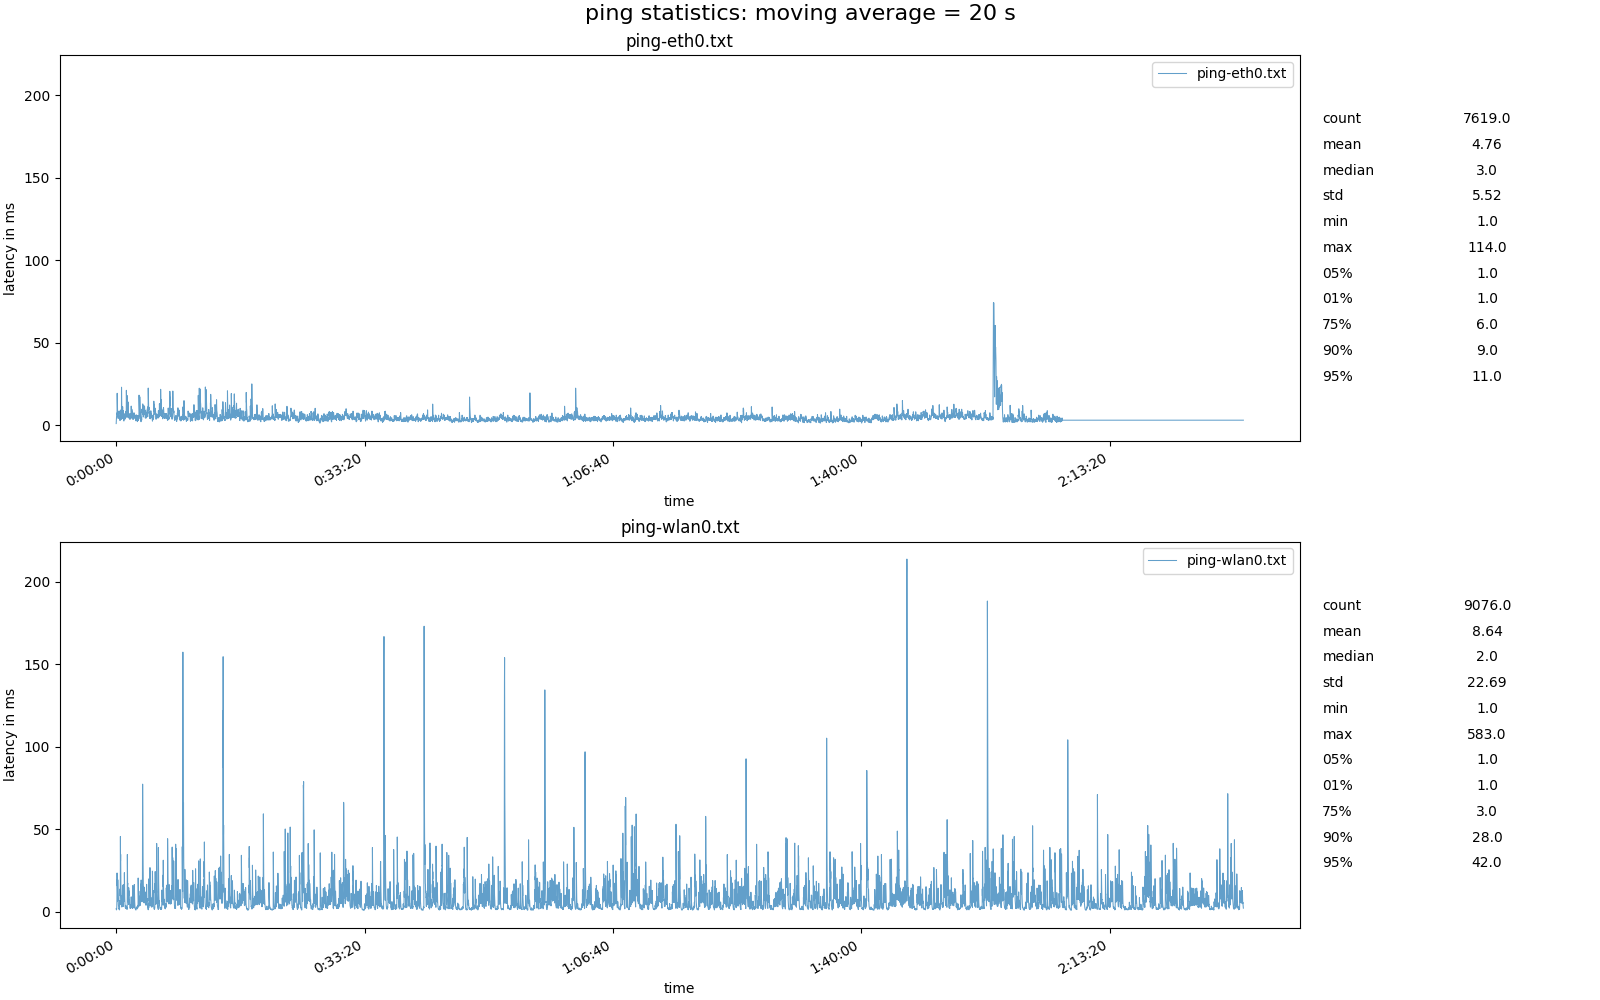
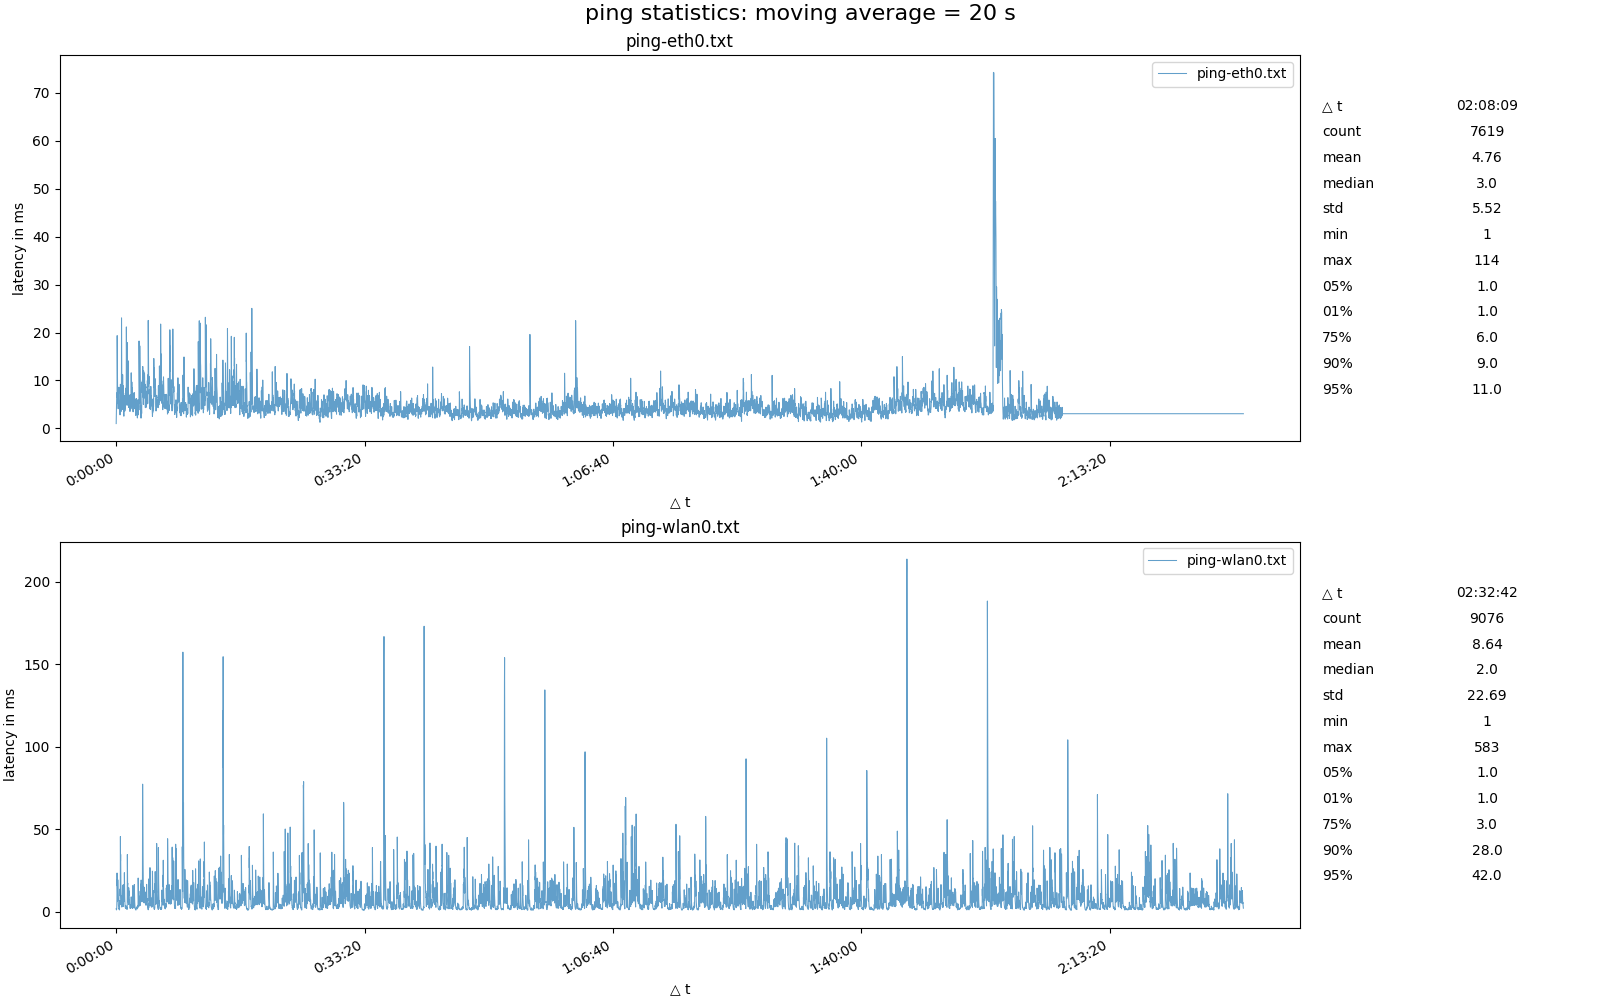
cleanup, axis labels

diff --git a/ping-analysis.py b/ping-analysis.py
@@ -1,4 +1,4 @@
-#!/usr/bin/python
+#!/usr/bin/env python3
 
 import sys
 from os.path import basename
@@ -12,8 +12,32 @@ from matplotlib import ticker
 
 # TODO: UNIX/Linux support
 # TODO: input validation, error checking
+# TODO: type functions
 
 def main():
+    args = parse_args()
+    latencies = read_files(args.file)
+
+    plots = []
+    if args.plot in ["single", "both"]:
+        # plots.append(plot_single(latencies, args.ma_window))
+        plots.append(create_plot(latencies, args.ma_window, "single"))
+    if args.plot in ["multi", "both"]:
+        # plots.append(plot_multi(latencies, args.ma_window))
+        plots.append(create_plot(latencies, args.ma_window, "multi"))
+
+    if args.out and len(args.out) != len(plots):
+        sys.exit("error: number of plots doesnt match number of out-files specified")
+
+    for plot in plots:
+        if args.out:
+            plot.savefig(args.out.pop().name)
+            plot.close()
+            continue
+        plot.show()
+        plot.close()
+
+def parse_args() -> argparse.Namespace:
     parser = argparse.ArgumentParser()
     parser.add_argument(
         "file", 
@@ -39,28 +63,9 @@ def main():
         type = int,
         help = "moving-average window in seconds; default = 20"
     )
-    args = parser.parse_args()
-    latencies = read_files(args.file)
+    return parser.parse_args()
 
-    plots = []
-    if args.plot in ["single", "both"]:
-        plots.append(plot_single(latencies, args.ma_window))
-    if args.plot in ["multi", "both"]:
-        plots.append(plot_multi(latencies, args.ma_window))
-
-    if args.out and len(args.out) != len(plots):
-        sys.exit("error: number of plots doesnt match number of out-files specified")
-
-    for plot in plots:
-        if args.out:
-            plot.savefig(args.out.pop().name)
-            plot.close()
-            continue
-        plot.show()
-        plot.close()
-
-
-def read_files(files) -> pd.DataFrame:
+def read_files(files: list[argparse.FileType]) -> pd.DataFrame:
     data = {}
     index = []
     
@@ -80,9 +85,10 @@ def read_files(files) -> pd.DataFrame:
     latencies = latencies.set_index("index", drop=True)
     return latencies
 
-def extract_pings(pings):
+def extract_pings(pings: list[str]) -> list[str]:
     # remove head until "Reply from" is matched
     pings = list(dropwhile(lambda ln: "Reply from" not in ln, pings))
+    # TODO: make readable
     # remove tail until "Reply from" is matched
     n = len(pings)
     i = n - 1
@@ -93,10 +99,10 @@ def extract_pings(pings):
     pings[-lines_to_delete:lines_to_delete and None] = []
     return pings
 
-def get_datetime(ping) -> int:
+def get_datetime(ping: str) -> datetime:
     return datetime.datetime.strptime(ping[0:19], "%d.%m.%Y %H:%M:%S")
 
-def get_latency(ping) -> int:
+def get_latency(ping: str) -> int:
     return int(re.search("time=(\d*)", ping).group(1))
 
 def describe(df: pd.DataFrame, include = 'all') -> pd.DataFrame:
@@ -107,95 +113,83 @@ def describe(df: pd.DataFrame, include = 'all') -> pd.DataFrame:
     desc = {}
     for col in cols: 
         desc[col] = {
+            "△ t": str(df[col].last_valid_index()).split( )[-1],
             "count": df[col].count(),
             "mean": df[col].mean(skipna = True).round(2),
             "median": df[col].median(skipna=True),
             "std": df[col].std(skipna=True).round(2),
             "min": df[col].min(skipna=True),
             "max": df[col].max(skipna=True),
-            "05%": df[col].quantile(.05),
-            "01%": df[col].quantile(.1),
+            "25%": df[col].quantile(.25),
             "75%": df[col].quantile(.75),
             "90%": df[col].quantile(.9),
             "95%": df[col].quantile(.95),
         }
     return pd.DataFrame.from_dict(desc)
 
-def plot_multi(latencies: pd.DataFrame, ewm_window: int = 20) -> plt:
-    n = latencies.shape[1]
+def create_plot(latencies: pd.DataFrame, ewm_window: int = 20, plots: str = "single") -> plt:
+    desc = describe(latencies)
     cols = list(latencies.columns.values)
-    desc = describe(latencies)    
+
+    if plots == "multi":
+        n = latencies.shape[1]
+    elif plots == "single":
+        n = 1
     
     fig, axes = plt.subplots(
-        nrows = n, ncols = 2, 
-        sharey = True,
-        figsize = (16, 10), 
+        nrows = n, ncols = 2,
+        figsize = (16, 5 * n), 
         constrained_layout=True, 
         gridspec_kw={"width_ratios": [8, 1]}
     )
 
     fig.suptitle(f"ping statistics: moving average = {ewm_window} s", fontsize = 16)
+    xformatter = ticker.FuncFormatter(timeTicks)
 
-    for i, col in enumerate(cols):
-        # latencies[col].plot(
-        #     ax = axes[i, 0], 
-        #     alpha = 0.5, 
-        #     label = "latency in ms", 
-        #     linewidth = 0.75
-        # )
-        latencies[col].ewm(span = 5).mean().plot(
-            ax = axes[i, 0], 
-            alpha = 0.7, 
+    # single chart
+    if n == 1: 
+        latencies.ewm(span = ewm_window).mean().plot(
+            ax = axes[0], 
+            alpha = 0.7,
             linewidth = 0.75
         )
-        
-        axes[i, 0].xaxis.set_major_formatter(ticker.FuncFormatter(timeTicks))
-        axes[i, 0].set(xlabel = "time", ylabel = "latency in ms", title = col)
-        axes[i, 0].legend()
-        
-        colinfo = pd.DataFrame(desc[col])
+        axes[0].set(xlabel = "△ t", ylabel = "latency in ms")
+        axes[0].xaxis.set_major_formatter(xformatter)
+
         # TODO: table creation as seperate function
-        tab = axes[i, 1].table( 
-            cellText = colinfo.values, 
-            rowLabels = colinfo.index, 
+        tab = axes[1].table( 
+            cellText = desc.values, 
+            rowLabels = desc.index, 
+            colLabels = desc.columns,
             loc = "center", 
             cellLoc = "center",
             edges = "open"
         )
         tab.scale(1.4, 1.4)
-        axes[i, 1].axis("off")
-    
-    return plt
-
-def plot_single(latencies: pd.DataFrame, ewm_window: int = 20):
-    cols = list(latencies.columns.values)
-    desc = describe(latencies)
-
-    fig, axes = plt.subplots(
-        nrows = 1, ncols = 2, 
-        figsize = (16, 10 / 2), 
-        constrained_layout=True, 
-        gridspec_kw={"width_ratios": [8, 1]}
-    )
-    latencies.ewm(span = ewm_window).mean().plot(
-        ax = axes[0], 
-        alpha = 0.7,
-        linewidth = 0.75
-    )
-    fig.suptitle(f"ping statistics: moving average = {ewm_window} s", fontsize = 16)
-    axes[0].xaxis.set_major_formatter(ticker.FuncFormatter(timeTicks))
-
-    # TODO: table creation as seperate function
-    tab = axes[1].table( 
-        cellText = desc.values, 
-        rowLabels = desc.index, 
-        colLabels = desc.columns,
-        loc = "center", 
-        cellLoc = "center",
-        edges = "open"
-    )
-    tab.scale(1.4, 1.4)
-    axes[1].axis("off")
+        axes[1].axis("off")
+    # multiple charts
+    else: 
+        for i, col in enumerate(cols):
+            latencies[col].ewm(span = 5).mean().plot(
+                ax = axes[i, 0], 
+                alpha = 0.7, 
+                linewidth = 0.75
+            )
+            axes[i, 0].xaxis.set_major_formatter(xformatter)
+            axes[i, 0].set(xlabel = "△ t", ylabel = "latency in ms", title = col)
+            axes[i, 0].legend()
+            
+            colinfo = pd.DataFrame(desc[col])
+            # TODO: table creation as seperate function
+            tab = axes[i, 1].table( 
+                cellText = colinfo.values, 
+                rowLabels = colinfo.index, 
+                loc = "center", 
+                cellLoc = "center",
+                edges = "open"
+            )
+            tab.scale(1.4, 1.4)
+            axes[i, 1].axis("off")
     
     return plt
 

diff --git a/README.md b/README.md
@@ -2,7 +2,7 @@
 A simple script to analyze and display ping statistics from one or more ping transcripts. Examplary PowerShell ping transcripts included. Linux currently not supported. 
 
 ## Usage
-    $ python .\ping-analysis.py -h
+    $ python3 .\ping-analysis.py -h
     usage: ping-analysis.py [-h] [-p {single,mult,both}] [-o OUT [OUT ...]] [--ma-window MA_WINDOW]
                             file [file ...]
 
@@ -28,7 +28,7 @@ A simple script to analyze and display ping statistics from one or more ping tra
 ## Example
 Comparing a powerline ehternet adapter to wifi - seems to be working surprisingly well
 
-    python .\ping-analysis.py .\example\ping-eth0.txt .\example\ping-wlan0.txt -p both -o .\example\single.png .\example\multi.png
+    python3 .\ping-analysis.py .\example\ping-eth0.txt .\example\ping-wlan0.txt -p both -o .\example\single.png .\example\multi.png
 
 ![Single Graph](/example/single.png "Single Graph")
 
